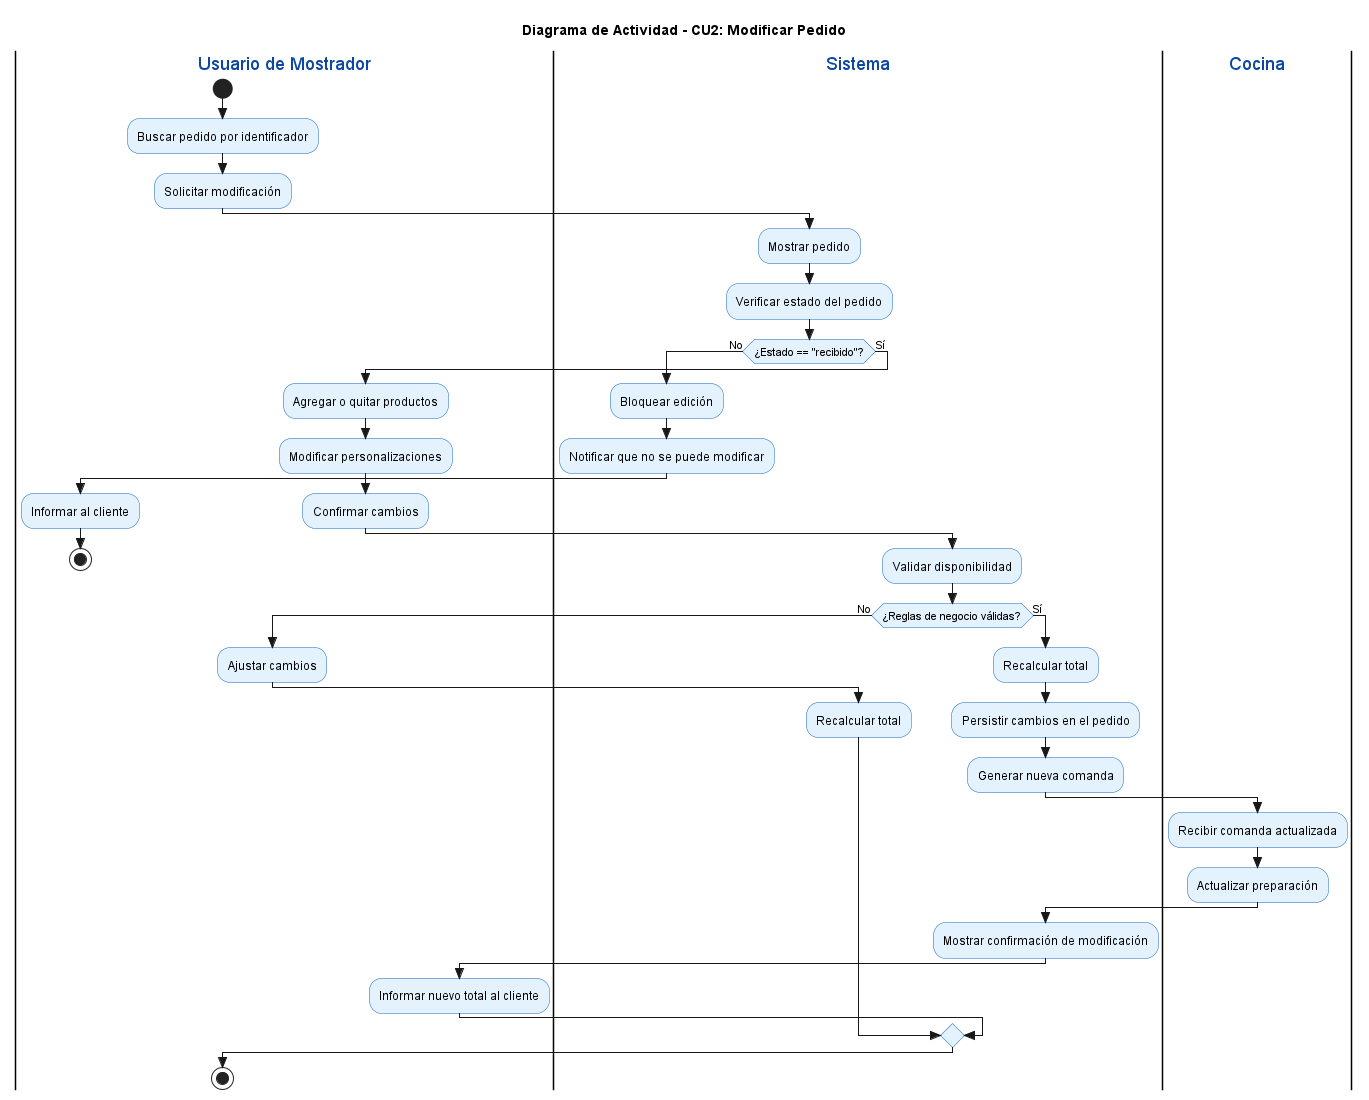
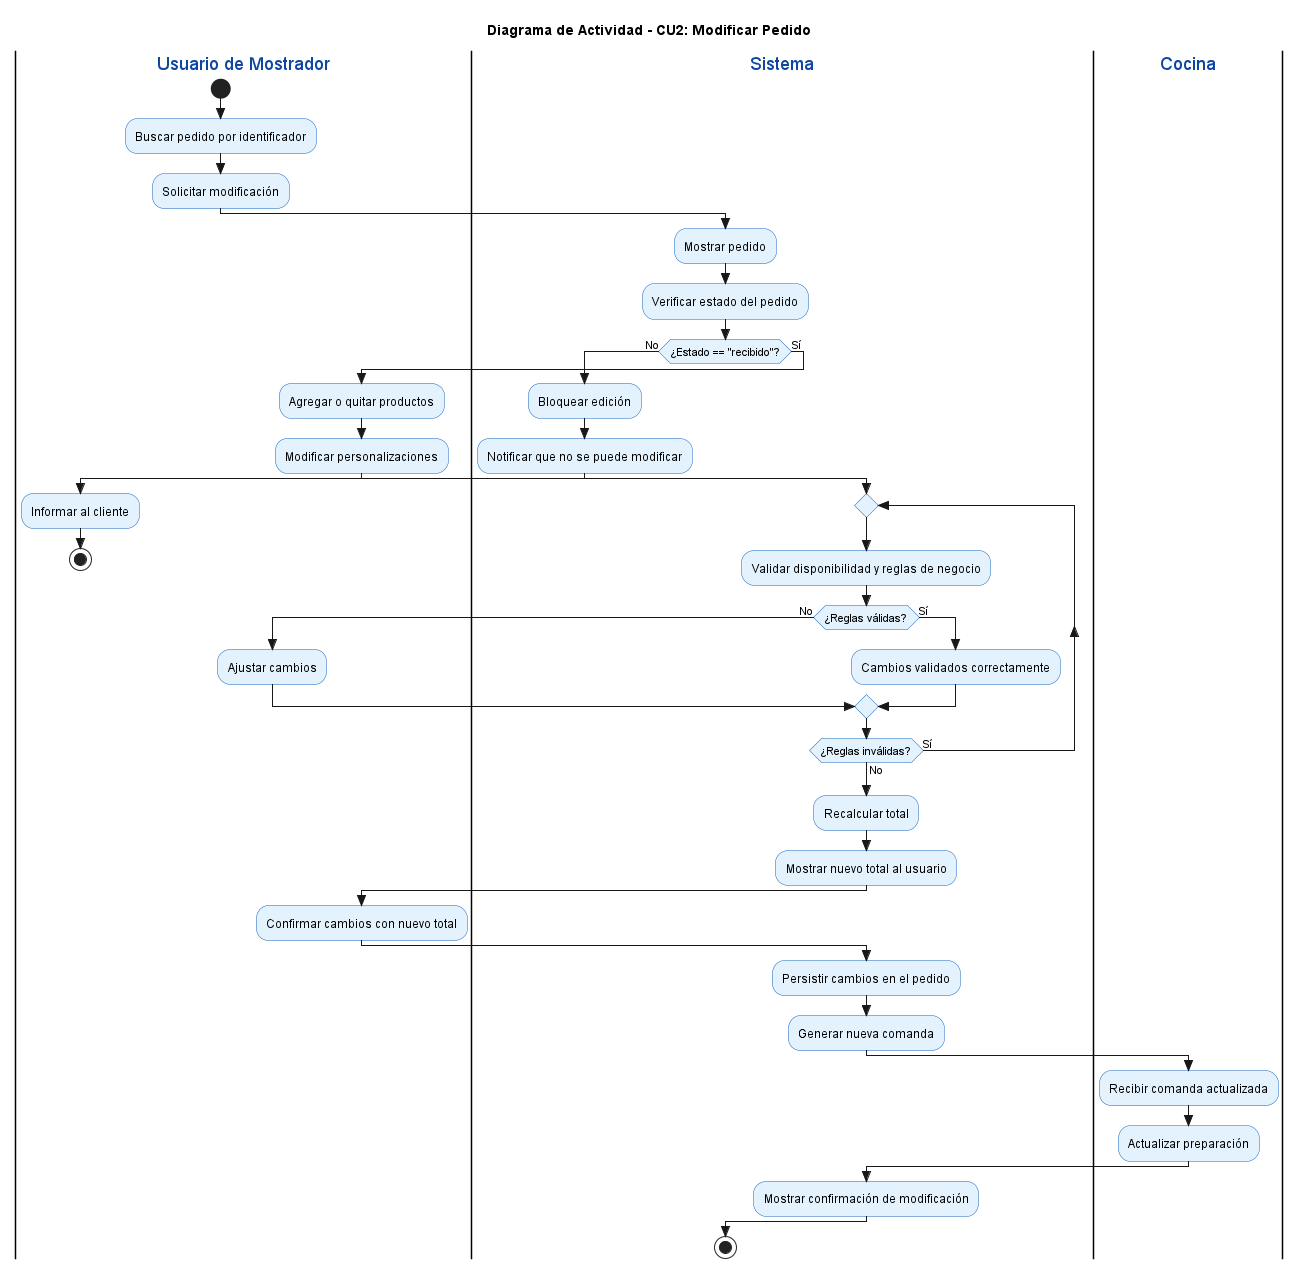
docs: registra PR #193 en changelog y actualiza diagramas segun revisión

diff --git a/changelog.md b/changelog.md
@@ -10,7 +10,9 @@
 
 - [feature/doc-coord-a3-documentacion] A3 - Documentador y Coordinador de Repositorio: incorporación de plantillas de Issues y Pull Requests para A3 y estructura de documentación de revisiones asistidas por IA en `ia/a3/documentador-coordinador.md`. Issue: [#185](https://github.com/lucasmengarelli3/SistemaPedidos/issues/185) PR: [#184](https://github.com/lucasmengarelli3/SistemaPedidos/pull/184). @neith18 (Documentador y Coordinador de Repositorio).
 
-- [[feature/a3-uml-secuencia] A3 - Diagramas de Secuencia: incorporación de diagramas de secuencia UML en sintaxis PlantUML y sus exportaciones PNG para los 6 escenarios del sistema de pedidos (Registrar, Modificar, Cancelar, Preparar, Cobrar y Entregar). Se genera el índice específico de la sección y se completa el registro de prompts e iteraciones con IA. Issues: [#195](https://github.com/lucasmengarelli3/SistemaPedidos/issues/195), [#196](https://github.com/lucasmengarelli3/SistemaPedidos/issues/196), [#197](https://github.com/lucasmengarelli3/SistemaPedidos/issues/197), [#198](https://github.com/lucasmengarelli3/SistemaPedidos/issues/198), [#199](https://github.com/lucasmengarelli3/SistemaPedidos/issues/199), [#200](https://github.com/lucasmengarelli3/SistemaPedidos/issues/200) PR: [#201](https://github.com/lucasmengarelli3/SistemaPedidos/pull/201). @AgustinCalaver (Especialista en Diagramas de Secuencia).
+- [feature/a3-uml-secuencia] A3 - Diagramas de Secuencia: incorporación de diagramas de secuencia UML en sintaxis PlantUML y sus exportaciones PNG para los 6 escenarios del sistema de pedidos (Registrar, Modificar, Cancelar, Preparar, Cobrar y Entregar). Se genera el índice específico de la sección y se completa el registro de prompts e iteraciones con IA. Issues: [#195](https://github.com/lucasmengarelli3/SistemaPedidos/issues/195), [#196](https://github.com/lucasmengarelli3/SistemaPedidos/issues/196), [#197](https://github.com/lucasmengarelli3/SistemaPedidos/issues/197), [#198](https://github.com/lucasmengarelli3/SistemaPedidos/issues/198), [#199](https://github.com/lucasmengarelli3/SistemaPedidos/issues/199), [#200](https://github.com/lucasmengarelli3/SistemaPedidos/issues/200). PR: [#201](https://github.com/lucasmengarelli3/SistemaPedidos/pull/201). @AgustinCalaver (Especialista en Diagramas de Secuencia).
+
+- [feature/esp-actividades-1-2-add-diagramas] A3 - Diagramas de Actividades CU1 y CU2: corrección de bucles de validación, camino alternativo de producto no disponible y orden de confirmación según revisión. Se actualiza documentación de IA con iteraciones y respuestas textuales. Issues: [#191](https://github.com/lucasmengarelli3/SistemaPedidos/issues/191), [#192](https://github.com/lucasmengarelli3/SistemaPedidos/issues/192). PR: [#193](https://github.com/lucasmengarelli3/SistemaPedidos/pull/193). @tomx2002-droid (Especialista en Actividades 1 y 2).
 
 ### Changed
 

diff --git a/ia/a3/esp-actividades-1-2.md b/ia/a3/esp-actividades-1-2.md
@@ -20,10 +20,25 @@ Para que la IA pueda generar los diagramas correctamente, se le proporcionaron l
 ## Output obtenido
 - La IA generó una propuesta inicial de los dos diagramas en código PlantUML, estructurando los flujos con los carriles solicitados y agregando los nodos de decisión correspondientes a las validaciones de los escenarios.
 
+Respuesta textual de la IA :
+
+- "A continuación, se presentan los diagramas de actividades para el CU1 (Registrar Pedido) y el CU2 (Modificar Pedido). Se han utilizado los carriles 'Usuario de Mostrador', 'Sistema' y 'Cocina'. Para el CU1, se incluye un nodo de decisión para la validación de datos. Para el CU2, se incluye un nodo de decisión para verificar el estado del pedido antes de permitir la modificación."
+
+## Iteraciones relevantes
+
+- Iteración 1: El primer output de la IA generó los diagramas con los flujos lógicos, pero se notó que no incluía el camino alternativo para cuando un producto no está disponible en el CU1. Se le solicitó a la IA que lo agregue.
+
+- Iteración 2: Se revisó que los bucles de validación estuvieran correctamente representados. La IA los incluyó, pero se ajustó manualmente la sintaxis para que el flujo de retorno fuera claro (usando repeat y backward).
+
+- Iteración 3 (ajustes finales): Se ordenó el flujo del CU2 para que la confirmación del usuario ocurra después de que el sistema recalcule el total, tal como indica el escenario de la Actividad 2.
 
 ## Ajustes realizados
 - Se revisó manualmente que el carril de "Cocina" refleje correctamente la recepción asíncrona de la comanda.
 
+- Se implementaron bucles de validación en ambos diagramas para que, si los datos/reglas no son válidos, el flujo vuelva a validar antes de continuar.
+
 - Se ajustaron los nombres de los nodos de decisión para que reflejen exactamente las reglas de negocio (por ejemplo, en el CU2 se verifica explícitamente si el estado es "recibido").
 
 - Se adaptó la nomenclatura de las actividades para que coincida palabra por palabra con los pasos descritos en los escenarios de la Actividad 2, garantizando la trazabilidad.
+
+- Se corrigió el orden de las actividades en el CU2 para que la confirmación sea el último paso antes de persistir los cambios.
